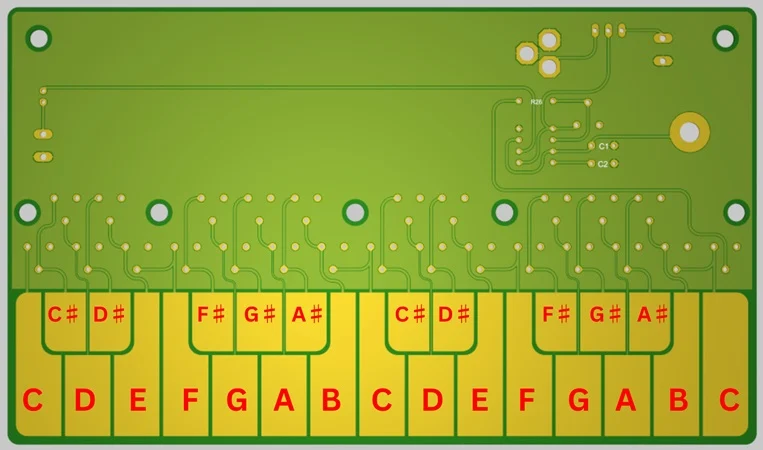
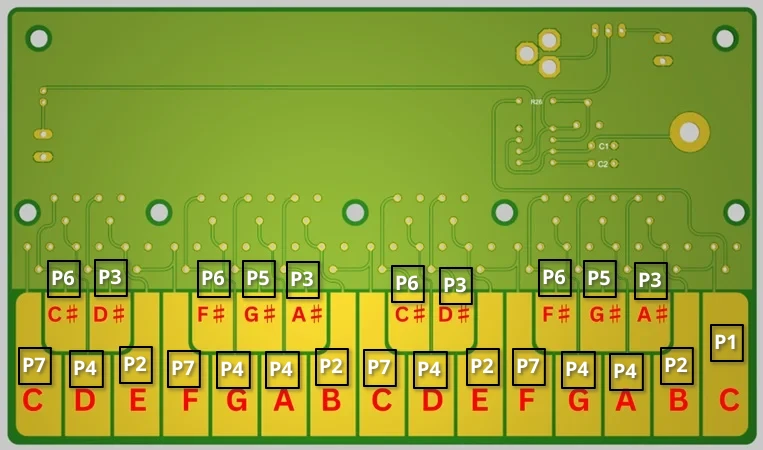
add plan for key footprints to README.md and annotate example_pcb.webp with key footprints

diff --git a/README.md b/README.md
@@ -4,12 +4,20 @@ custom stylophone PCB
 
 using [this guide](https://www.allaboutcircuits.com/projects/create-your-own-stylus-controlled-synthesizer/)
 
-PCB used will be 20cm by 15cm
+# PCB
+
+PCB used will be 200mm by 150mm
+
+- 3.5mm border on the outside of the keys
+- 2mm border between keys (there are 14 borders)
+- each key is 11mm (there are 15 keys)
+- each key has its own footprint (named P1-P7)
 
 # TODO
 
 1. [ ] test concept on a breadboard
 2. [ ] add custom footprints for `TP4`-`TP28` so that they look like a keyboard in the PCB
+	- plan pad types for each key by annotating the example PCB
 3. [ ] layout PCB
 4. [ ] build BOM and order correct parts
 5. [ ] order PCB
